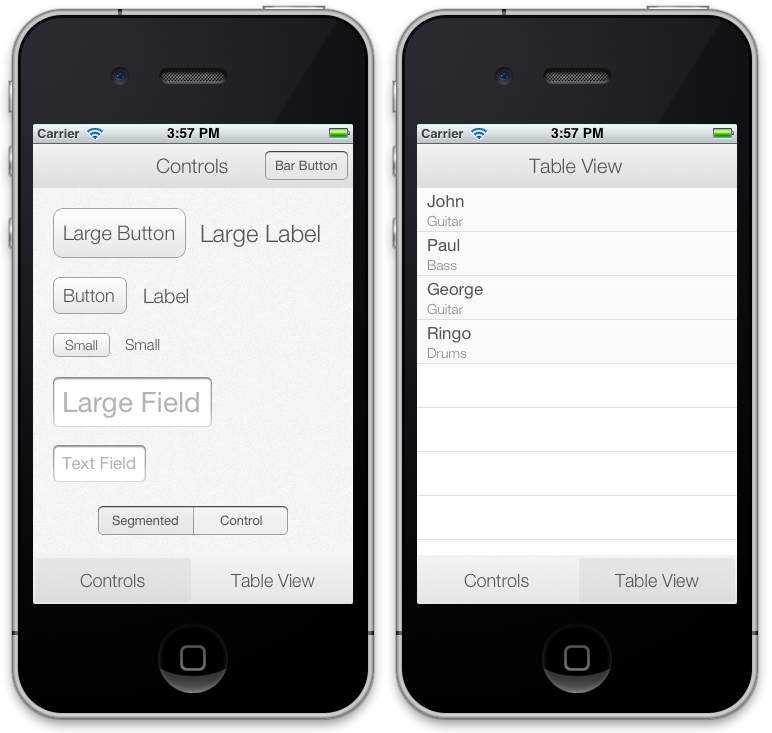
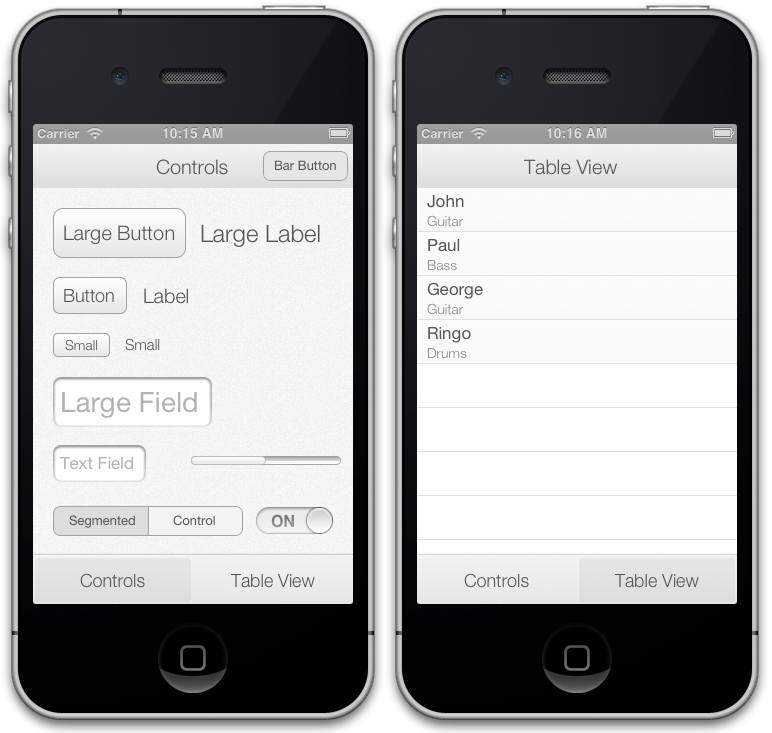
Adding in support for UIProgressView

diff --git a/NUI/UI/UIProgressView+NUI.m b/NUI/UI/UIProgressView+NUI.m
@@ -1,0 +1,68 @@
+//
+//  UIProgressView+NUI.m
+//  NUIDemo
+//
+//  Created by Christopher Cotton on 3/13/13.
+//  Copyright (c) 2013 Tom Benner. All rights reserved.
+//
+
+#import "UIProgressView+NUI.h"
+#import "NUIRenderer.h"
+
+@implementation UIProgressView (NUI)
+
+- (void)initNUI
+{
+    if (!self.nuiClass) {
+        self.nuiClass = @"Progress";
+    }
+}
+
+- (void)applyNUI
+{
+    if ([self class] == [UIProgressView class] || self.nuiClass) {
+        [self initNUI];
+        if (![self.nuiClass isEqualToString:@"none"]) {
+            [UIProgressView renderNui:self withClass:self.nuiClass];
+        }
+    }
+    
+    self.nuiIsApplied = [NSNumber numberWithBool:YES];
+}
+
+- (void)override_didMoveToWindow
+{
+    if (!self.nuiIsApplied) {
+        [self applyNUI];
+    }
+    [self override_didMoveToWindow];
+}
+
+
++(void)renderNui:(UIProgressView*)progressView
+{
+    [self renderNui:progressView withClass:@"Progress"];
+}
+
++(void)renderNui:(UIProgressView*)progressView withClass:(NSString*)className
+{
+    if ([NUISettings hasProperty:@"progress-tint" withClass:className]) {
+        progressView.progressTintColor = [NUISettings getColor:@"progress-tint" withClass:className];
+    }
+
+    if ([NUISettings hasProperty:@"progress-image" withClass:className]) {
+        progressView.progressImage = [NUISettings getImage:@"progress-image" withClass:className];
+    }
+
+    if ([NUISettings hasProperty:@"track-tint" withClass:className]) {
+        progressView.trackTintColor = [NUISettings getColor:@"track-tint" withClass:className];
+    }
+    
+    if ([NUISettings hasProperty:@"tint-image" withClass:className]) {
+        progressView.trackImage = [NUISettings getImage:@"tint-image" withClass:className];
+    }
+
+    [NUIViewRenderer renderSize:progressView withClass:className];
+}
+
+@end

diff --git a/NUI/Core/NUIRenderer.m b/NUI/Core/NUIRenderer.m
@@ -7,6 +7,7 @@
 //
 
 #import "NUIRenderer.h"
+#import "UIProgressView+NUI.h"
 
 @implementation NUIRenderer
 
@@ -85,6 +86,20 @@ static NUIRenderer *instance = nil;
 {
     [NUINavigationBarRenderer render:bar withClass:className];
     [self registerObject:bar];
+}
+
+
+
++ (void)renderProgressView:(UIProgressView*)progressView
+{
+    [UIProgressView renderNui:progressView];
+    [self registerObject:progressView];
+}
+
++ (void)renderProgressView:(UIProgressView*)progressView withClass:(NSString*)className
+{
+    [UIProgressView renderNui:progressView withClass:className];
+    [self registerObject:progressView];
 }
 
 
@@ -294,6 +309,7 @@ static NUIRenderer *instance = nil;
                                    [UIBarButtonItem class], @"renderBarButtonItem",
                                    [UINavigationBar class], @"renderNavigationBar",
                                    [UINavigationItem class], @"renderNavigationItem",
+                                   [UIProgressView class], @"renderProgressView",
                                    [UISegmentedControl class], @"renderSegmentedControl",
                                    [UISlider class], @"renderSlider",
                                    [UISwitch class], @"renderSwitch",

diff --git a/Demo/NUIDemo/ProgrammaticallyCreatedViewController.m b/Demo/NUIDemo/ProgrammaticallyCreatedViewController.m
@@ -83,6 +83,10 @@
     [textField setDelegate:self];
     [self.view addSubview:textField];
     
+    UIProgressView *progressView = [[UIProgressView alloc] initWithFrame:CGRectMake(158, 268, 150, 9)];
+    progressView.progress = 0.5;
+    [self.view addSubview:progressView];    
+    
     NSArray *items = [NSArray arrayWithObjects: @"Segmented", @"Control", nil];
     UISegmentedControl *segmentedControl = [[UISegmentedControl alloc] initWithItems:items];
     [segmentedControl setFrame:CGRectMake(20, 318, 190, 30)];

diff --git a/NUI/Core/NUISwizzler.m b/NUI/Core/NUISwizzler.m
@@ -17,6 +17,7 @@
     [self swizzleDidMoveToWindow:[UILabel class]];
     [self swizzleDidMoveToWindow:[UINavigationBar class]];
     [self swizzleDidMoveToWindow:[UINavigationItem class]];
+    [self swizzleDidMoveToWindow:[UIProgressView class]];
     [self swizzleDidMoveToWindow:[UISearchBar class]];
     [self swizzleDidMoveToWindow:[UISegmentedControl class]];
     [self swizzleDidMoveToWindow:[UISlider class]];

diff --git a/NUI/Core/NUIRenderer.h b/NUI/Core/NUIRenderer.h
@@ -58,6 +58,9 @@
 + (void)renderNavigationItem:(UINavigationItem*)item;
 + (void)renderNavigationItem:(UINavigationItem*)item withClass:(NSString*)className;
 
++ (void)renderProgressView:(UIProgressView*)item;
++ (void)renderProgressView:(UIProgressView*)item withClass:(NSString*)className;
+
 + (void)renderSearchBar:(UISearchBar*)bar;
 + (void)renderSearchBar:(UISearchBar*)bar withClass:(NSString*)className;
 

diff --git a/NUI/UI/UIProgressView+NUI.h b/NUI/UI/UIProgressView+NUI.h
@@ -1,0 +1,17 @@
+//
+//  UIProgressView+NUI.h
+//  NUIDemo
+//
+//  Created by Christopher Cotton on 3/13/13.
+//  Copyright (c) 2013 Tom Benner. All rights reserved.
+//
+
+#import <UIKit/UIKit.h>
+#import <objc/runtime.h>
+
+@interface UIProgressView (NUI)
+
++(void)renderNui:(UIProgressView*)progressView;
++(void)renderNui:(UIProgressView*)progressView withClass:(NSString*)className;
+
+@end

diff --git a/README.md b/README.md
@@ -265,6 +265,16 @@ Below are all of the currently available style classes, their corresponding UI c
 * text-shadow-color *(Color)*
 * text-shadow-offset *(Offset)*
 
+#### Progress
+
+*UIProgressView*
+
+* progress-image *(Image)*
+* progress-tint *(Color)*
+* track-image *(Image)*
+* track-tint *(Color)*
+* width *(Number)*
+
 #### SearchBar
 
 *UISearchBar*
